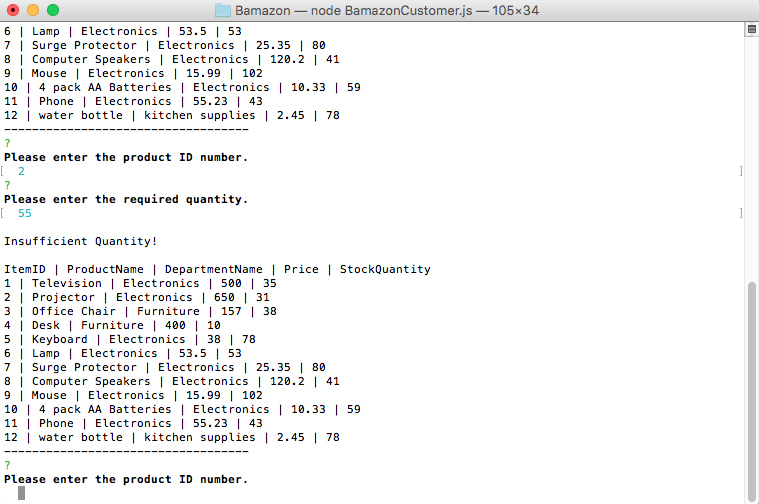
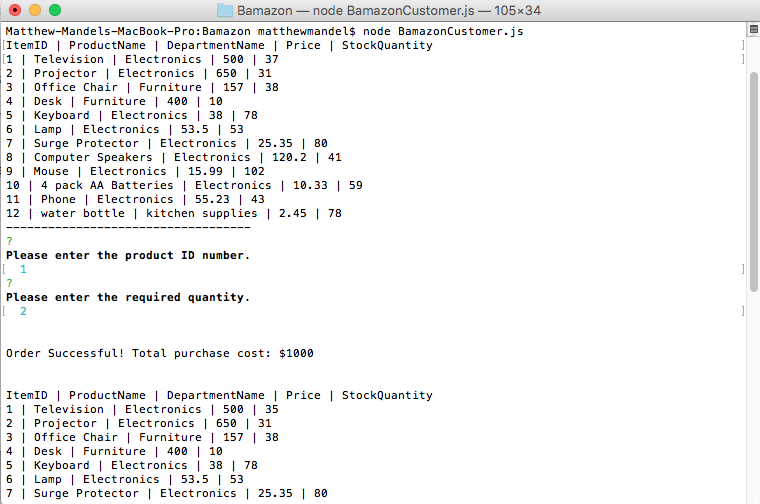
README1.md added

Changed region(s): [[0.0, 0.0, 0.7273, 1.0], [0.9697, 0.1488, 1.0, 1.0]]

diff --git a/README1.md b/README1.md
@@ -8,10 +8,10 @@
 
 ###The customer is prompted to enter the product ID number and the quantity they would like:
 
-![image2](../images/customer1.png)
+![image2](../images/customer2.png)
 
 ###Since the product is available in sufficient quantity, the order total is displayed. The program begins again, allowing for further purchases. Note that the stockQuantity updated according to the previous purchase (Televisions decreased from 40 to 37).
 
-![image3](../images/customer2.png)
+![image3](../images/customer3.png)
 
 ###When the user requests a higher quantity of a product than is available, "Insufficient Quantity!" is displayed. The table displays again and the user is prompted to make another purchase.
